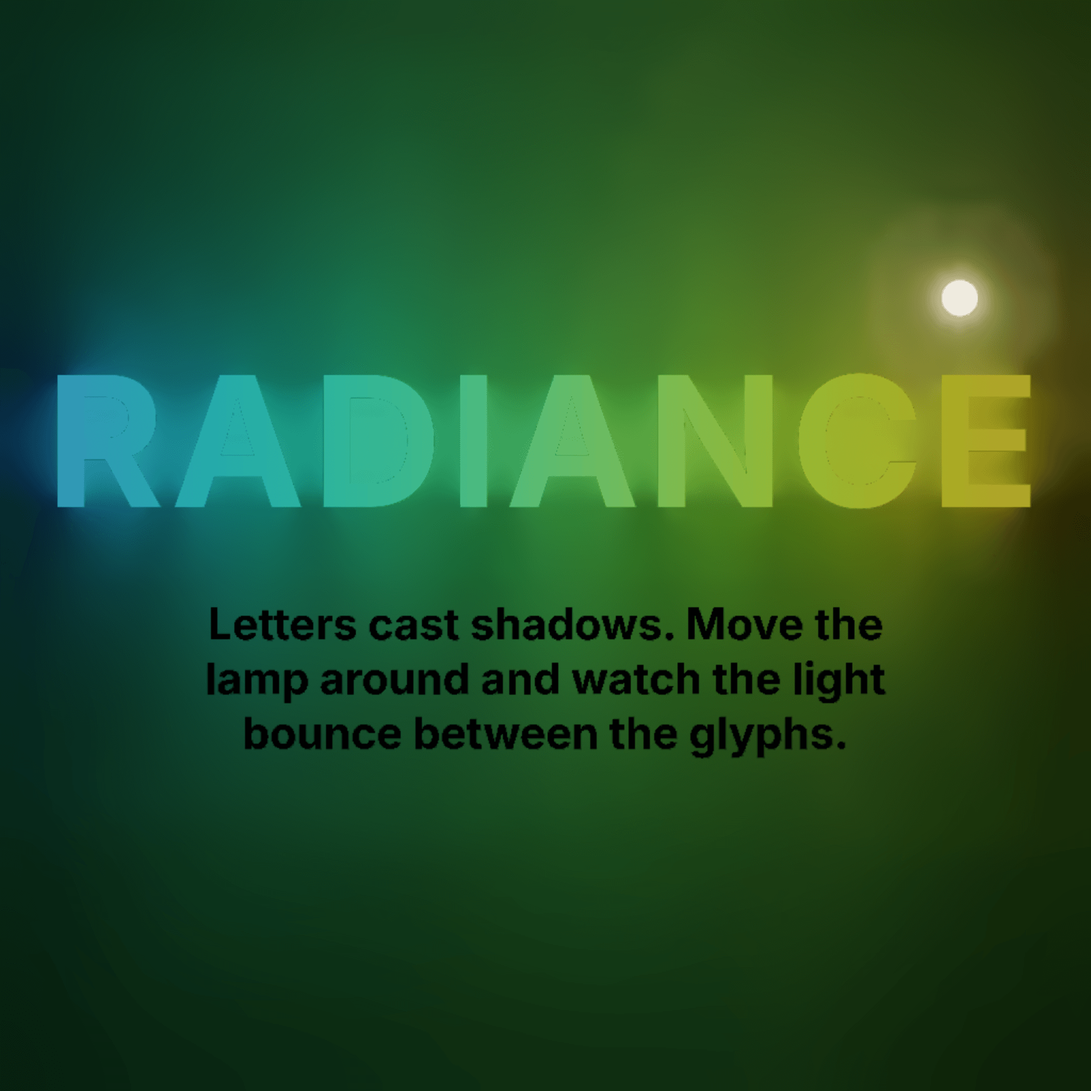
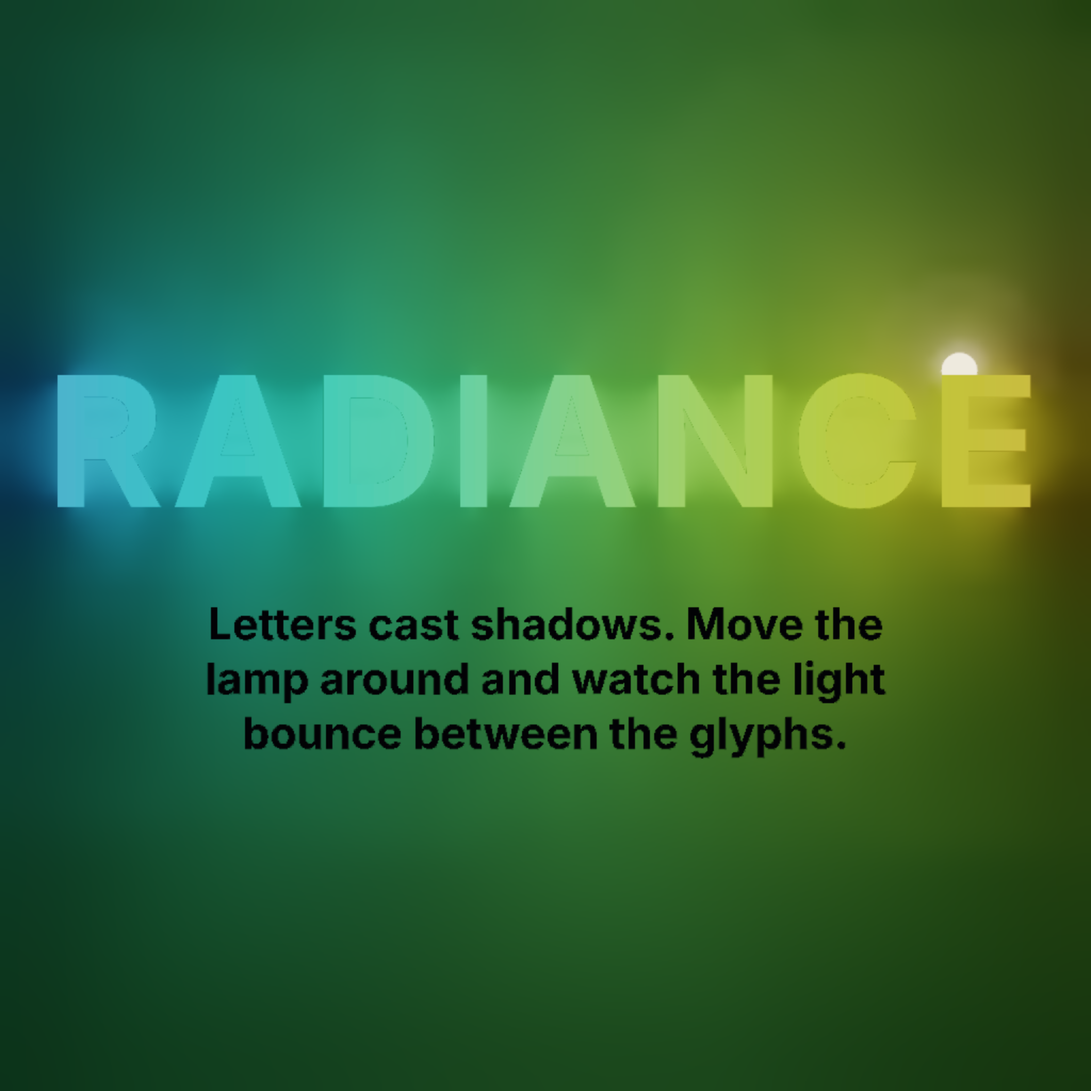
feat(docs): add slots-and-accessors example, tunnel boost, neon toggle
- simple/slots-and-accessors: three pipelines built from one shader by
  injecting pattern functions through a slot and tint sources through an
  accessor (constant, uniform, and GPU function)
- slug-text-tunnel: hold the pointer to boost the flight speed
- text-radiance-cascades: "Neon Text" toggle turning the headline into a
  shadow caster, and emission scaled with canvas size so the look stays
  consistent across resolutions

Claude-Session: https://claude.ai/code/session_013ni5QoJ1P6F8stBovje7Ye

diff --git a/apps/typegpu-docs/src/examples/simple/slots-and-accessors/index.ts b/apps/typegpu-docs/src/examples/simple/slots-and-accessors/index.ts
@@ -1,0 +1,161 @@
+import { tgpu, d, std } from 'typegpu';
+import { defineControls } from '../../common/defineControls.ts';
+
+// Slots and accessors are placeholders inside shader code. They are filled in
+// when a pipeline is created, so a single shader can be reused in many ways.
+
+const root = await tgpu.init();
+const canvas = document.querySelector('canvas') as HTMLCanvasElement;
+const context = root.configureContext({ canvas, alphaMode: 'premultiplied' });
+
+const timeUniform = root.createUniform(d.f32);
+const scaleUniform = root.createUniform(d.f32, 12);
+const columnAspectUniform = root.createUniform(d.f32, 1);
+
+// #region Placeholders
+
+// A slot can hold anything, here a function that turns UVs into brightness.
+const patternSlot = tgpu.slot<(uv: d.v2f) => number>();
+
+// An accessor holds a value of a given schema. It can be filled with a plain
+// constant or with a uniform, and the shader does not care which one it is.
+const tintAccess = tgpu.accessor(d.vec3f);
+const columnAccess = tgpu.accessor(d.f32);
+
+// #endregion
+
+// #region Pattern functions
+
+const stripes = (uv: d.v2f) => {
+  'use gpu';
+  const t = std.sin((uv.x + uv.y) * scaleUniform.$ + timeUniform.$ * 2);
+  return std.smoothstep(-0.1, 0.1, t);
+};
+
+const rings = (uv: d.v2f) => {
+  'use gpu';
+  const dist = std.length(uv - 0.5) * scaleUniform.$ - timeUniform.$ * 2;
+  return std.smoothstep(-0.2, 0.2, std.sin(dist * 2));
+};
+
+const checker = (uv: d.v2f) => {
+  'use gpu';
+  const angle = timeUniform.$ * 0.3;
+  const centered = uv - 0.5;
+  const rotated = d.vec2f(
+    centered.x * std.cos(angle) - centered.y * std.sin(angle),
+    centered.x * std.sin(angle) + centered.y * std.cos(angle),
+  );
+  const cell = std.floor(rotated * scaleUniform.$);
+  return std.select(0.2, 1, (cell.x + cell.y) % 2 === 0);
+};
+
+// #endregion
+
+// #region The shared shader
+
+const COLUMNS = 3;
+
+// Each pipeline covers one vertical column of the canvas.
+const vertex = tgpu.vertexFn({
+  in: { index: d.builtin.vertexIndex },
+  out: { position: d.builtin.position, uv: d.vec2f },
+})(({ index }) => {
+  'use gpu';
+  // A triangle that covers the whole column, and more (the rest gets clipped).
+  const corner = d.vec2f(d.f32(index & 1) * 2, d.f32(index >>> 1) * 2);
+  const columnWidth = 2 / COLUMNS;
+  const left = -1 + columnAccess.$ * columnWidth;
+  return {
+    position: d.vec4f(left + corner.x * columnWidth, corner.y * 2 - 1, 0, 1),
+    // Square UVs centered in the column, so the patterns don't get stretched.
+    uv: d.vec2f((corner.x - 0.5) * columnAspectUniform.$ + 0.5, 1 - corner.y),
+  };
+});
+
+const fragment = tgpu.fragmentFn({
+  in: { uv: d.vec2f },
+  out: d.vec4f,
+})(({ uv }) => {
+  'use gpu';
+  const brightness = patternSlot.$(uv);
+  return d.vec4f(tintAccess.$ * brightness, 1);
+});
+
+// #endregion
+
+// #region Three pipelines, one shader
+
+const animatedTint = root.createUniform(d.vec3f);
+
+const pipelines = [
+  // Slot: stripes, accessor: a constant color.
+  root
+    .with(patternSlot, stripes)
+    .with(tintAccess, d.vec3f(1, 0.45, 0.35))
+    .with(columnAccess, 0)
+    .createRenderPipeline({ vertex, fragment }),
+  // Slot: rings, accessor: a uniform buffer that changes every frame.
+  root
+    .with(patternSlot, rings)
+    .with(tintAccess, animatedTint)
+    .with(columnAccess, 1)
+    .createRenderPipeline({ vertex, fragment }),
+  // Slot: checker, accessor: a GPU function computing the color.
+  root
+    .with(patternSlot, checker)
+    .with(tintAccess, () => {
+      'use gpu';
+      return std.mix(
+        d.vec3f(0.3, 0.6, 1),
+        d.vec3f(0.7, 1, 0.8),
+        std.sin(timeUniform.$) * 0.5 + 0.5,
+      );
+    })
+    .with(columnAccess, 2)
+    .createRenderPipeline({ vertex, fragment }),
+];
+
+// #endregion
+
+function frame(timestamp: number) {
+  frameId = requestAnimationFrame(frame);
+  if (canvas.width === 0 || canvas.height === 0) {
+    return;
+  }
+  const time = timestamp / 1000;
+  timeUniform.write(time);
+  columnAspectUniform.write(canvas.width / COLUMNS / canvas.height);
+  animatedTint.write(d.vec3f(0.6 + 0.4 * Math.sin(time), 0.5, 0.6 + 0.4 * Math.cos(time)));
+
+  // All three pipelines draw into the same render pass.
+  const encoder = root['~unstable'].createCommandEncoder();
+  const pass = encoder.beginRenderPass({ colorAttachments: [{ view: context }] });
+  for (const pipeline of pipelines) {
+    pipeline.with(pass).draw(3);
+  }
+  pass.end();
+  encoder.submit();
+}
+let frameId = requestAnimationFrame(frame);
+
+// #region Example controls and cleanup
+
+export const controls = defineControls({
+  Scale: {
+    initial: 12,
+    min: 2,
+    max: 30,
+    step: 1,
+    onSliderChange(value: number) {
+      scaleUniform.write(value);
+    },
+  },
+});
+
+export function onCleanup() {
+  cancelAnimationFrame(frameId);
+  root.destroy();
+}
+
+// #endregion

diff --git a/apps/typegpu-docs/src/examples/rendering/text-radiance-cascades/index.ts b/apps/typegpu-docs/src/examples/rendering/text-radiance-cascades/index.ts
@@ -22,6 +22,7 @@ const Params = d.struct({
   time: d.f32,
   intensity: d.f32,
   animateHue: d.u32,
+  neonText: d.u32,
   displayMode: d.u32,
   resolution: d.vec2f,
   lampPos: d.vec2f, // in pixels
@@ -31,8 +32,9 @@ const Params = d.struct({
 
 const params = root.createUniform(Params, {
   time: 0,
-  intensity: 2.5,
+  intensity: 3.5,
   animateHue: 1,
+  neonText: 1,
   displayMode: 0,
   resolution: d.vec2f(1),
   lampPos: d.vec2f(),
@@ -60,10 +62,12 @@ const handle = glyph.handle(
       'use gpu';
       // White text becomes neon that slowly cycles through hues, dark text is
       // left as it is. The alpha channel marks the pixel as solid for the SDF.
-      const emissive = std.step(0.5, color.r);
+      // With neon switched off, the headline turns into a shadow caster too.
+      const emissive = std.step(0.5, color.r) * d.f32(params.$.neonText);
       const phase = fragPos.x * 0.003 + params.$.time * d.f32(params.$.animateHue) * 0.4;
-      const neon = std.mix(hueColor(phase), d.vec3f(1), 0.15) * 0.3;
-      return d.vec4f(std.mix(color.rgb, neon, emissive), color.a);
+      const neon = std.mix(hueColor(phase), d.vec3f(1), 0.15) * 0.45;
+      const base = std.min(color.rgb, d.vec3f(0.03, 0.03, 0.05));
+      return d.vec4f(std.mix(base, neon, emissive), color.a);
     },
   }),
 );
@@ -81,7 +85,7 @@ const headline = handle.createText({
 const body = handle.createText({
   font,
   text: 'Letters cast shadows. Move the lamp around and watch the light bounce between the glyphs.',
-  style: { fontSize: 36, lineHeight: 1.25, color: '#06060c' },
+  style: { fontSize: 36, lineHeight: 1.25, color: '#16161f' },
   layout: { align: 'center' },
 });
 
@@ -96,7 +100,7 @@ function layoutTexts() {
     constraints: { width: { mode: 'exact', size: width } },
   });
   body.update({
-    style: { fontSize: headlineSize * 0.24, lineHeight: 1.25, color: '#06060c' },
+    style: { fontSize: headlineSize * 0.24, lineHeight: 1.25, color: '#16161f' },
     constraints: { width: { mode: 'exact', size: width * 0.7 } },
   });
   const headlineHeight = headline.measure().height;
@@ -261,6 +265,13 @@ let sized = createSizedResources(Math.max(1, canvas.width), Math.max(1, canvas.h
 
 // #region Frame loop
 
+let intensity = 3.5;
+// Larger canvases get more cascade levels and gather more light, so the
+// emission is toned down with size to keep the look consistent.
+function emissionScale() {
+  return Math.min(1.1, Math.max(0.55, 700 / Math.min(canvas.width, canvas.height)));
+}
+
 const pointer = { x: 0, y: 0, active: false };
 function onPointerMove(event: PointerEvent) {
   const rect = canvas.getBoundingClientRect();
@@ -292,10 +303,11 @@ function frame(timestamp: number) {
     ? d.vec2f(pointer.x, pointer.y)
     : d.vec2f(
         canvas.width * (0.5 + 0.38 * Math.sin(time * 0.5)),
-        canvas.height * (0.5 + 0.25 * Math.sin(time * 0.9 + 1)),
+        canvas.height * (0.5 + 0.18 * Math.sin(time * 0.9 + 1)),
       );
   params.patch({
     time,
+    intensity: intensity * emissionScale(),
     lampPos,
     lampRadius: canvas.width * 0.018,
     resolution: d.vec2f(canvas.width, canvas.height),
@@ -339,18 +351,24 @@ export const controls = defineControls({
     },
   },
   Intensity: {
-    initial: 2.5,
+    initial: 3.5,
     min: 0.5,
     max: 8,
     step: 0.1,
     onSliderChange(value: number) {
-      params.patch({ intensity: value });
+      intensity = value;
     },
   },
   'Lamp Color': {
     initial: d.vec3f(1, 0.85, 0.6),
     onColorChange(value: d.v3f) {
       params.patch({ lampColor: value });
+    },
+  },
+  'Neon Text': {
+    initial: true,
+    onToggleChange(value: boolean) {
+      params.patch({ neonText: value ? 1 : 0 });
     },
   },
   'Animate Hue': {

diff --git a/apps/typegpu-docs/src/examples/rendering/slug-text-tunnel/index.ts b/apps/typegpu-docs/src/examples/rendering/slug-text-tunnel/index.ts
@@ -189,7 +189,19 @@ function onPointerMove(event: PointerEvent) {
 }
 canvas.addEventListener('pointermove', onPointerMove);
 
+// Hold the pointer down to punch it.
+let boosting = false;
+function onPointerDown() {
+  boosting = true;
+}
+function onPointerUp() {
+  boosting = false;
+}
+canvas.addEventListener('pointerdown', onPointerDown);
+window.addEventListener('pointerup', onPointerUp);
+
 let speed = 4;
+let currentSpeed = 4;
 let roll = 0;
 let lastTime = 0;
 
@@ -201,12 +213,14 @@ function frame(timestamp: number) {
   const dt = lastTime === 0 ? 0 : Math.min(0.05, (timestamp - lastTime) / 1000);
   lastTime = timestamp;
 
-  cameraX += speed * PX_PER_UNIT * dt;
+  const targetSpeed = boosting ? speed * 3 + 6 : speed;
+  currentSpeed += (targetSpeed - currentSpeed) * Math.min(1, dt * 3);
+  cameraX += currentSpeed * PX_PER_UNIT * dt;
   roll += dt * 0.08;
   pointer.x += (pointerTarget.x - pointer.x) * 0.05;
   pointer.y += (pointerTarget.y - pointer.y) * 0.05;
   tunnelParams.patch({ cameraX, roll, cameraOffset: pointer });
-  postParams.patch({ time: timestamp / 1000, speed });
+  postParams.patch({ time: timestamp / 1000, speed: currentSpeed });
   recycleWords();
 
   if (
@@ -283,6 +297,8 @@ export const controls = defineControls({
 export function onCleanup() {
   cancelAnimationFrame(frameId);
   canvas.removeEventListener('pointermove', onPointerMove);
+  canvas.removeEventListener('pointerdown', onPointerDown);
+  window.removeEventListener('pointerup', onPointerUp);
   for (const word of words) {
     word.text.dispose();
   }

diff --git a/apps/typegpu-docs/src/examples/simple/slots-and-accessors/index.html b/apps/typegpu-docs/src/examples/simple/slots-and-accessors/index.html
@@ -1,0 +1,1 @@
+<canvas></canvas>
